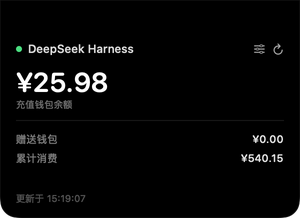
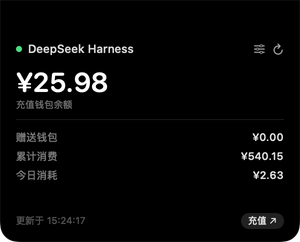
v0.3：充值入口 + 今日消耗
充值入口
- 卡片右下角「充值 ↗」，用系统浏览器打开 {平台来源}/top_up
- 域名取自凭据里的 issuer，与取余额同一来源，且不携带任何 token
  （与 DSH 自身做法一致：账号链接从平台来源派生，token 不进 URL）

今日消耗
- 平台接口没有按天维度，只有累计消费 total_costs，所以本地推算：
  记录每天起点的累计值作基线，今日消耗 = 当前累计 − 当日基线
- 跨天基线：昨天有读数就用昨天末值；隔了几天没开则用当天首读兜底（会少算）
- 基线落 UserDefaults，跨重启保留
- 判定抽成纯函数 DailyCost，--costcheck 覆盖 6 种分支：当天首读、同日差值、
  跨天用昨天末值、隔天兜底、负值钳零、连续两天独立统计

其他
- 余额卡片高度 186 → 210，容纳新增的一行与充值按钮
- 版本 0.2 → 0.3

diff --git a/Sources/main.swift b/Sources/main.swift
@@ -28,6 +28,7 @@ func runSelfTest() -> Int32 {
         print("  充值钱包  \(snapshot.primary?.display ?? "—")")
         print("  赠送钱包  \(snapshot.bonus.first?.display ?? "—")")
         print("  累计消费  \(snapshot.costs.first?.display ?? "—")")
+        print("  充值链接  \(snapshot.origin.appendingPathComponent("top_up").absoluteString)")
         return 0
     case .failure(let error):
         let text = (error as? LocalizedError)?.errorDescription ?? error.localizedDescription
@@ -74,7 +75,8 @@ func runRenderCheck() -> Int32 {
                              isExpanded: true,
                              showSettings: showSettings,
                              alert: alert,
-                             onToggleSettings: {})
+                             onToggleSettings: {},
+                             onTopUp: {})
         .frame(width: size.width, height: size.height)
 
     let renderer = ImageRenderer(content: view)
@@ -371,6 +373,69 @@ func runAlertCheck() -> Int32 {
     return failed == 0 ? 0 : 1
 }
 
+// MARK: - 今日消耗自检
+//
+// 平台只给累计消费，今日消耗是本地用差值推的。跨天、隔几天、异常值这些分支
+// 靠肉眼是验不出来的，必须逐条验。
+
+@MainActor
+func runCostCheck() -> Int32 {
+    var failed = 0
+    func check(_ name: String, _ ok: Bool, _ detail: String) {
+        if !ok { failed += 1 }
+        print("\(ok ? "✓" : "✗") \(name)")
+        print("    \(detail)")
+    }
+
+    let today = "2026-10-14"
+    let yesterday = "2026-10-13"
+
+    // 1. 当天第一次读数：没有基线，今日消耗为 0（不虚报）
+    var result = DailyCost.update(DailyCostState(), cost: 500, today: today, yesterday: yesterday)
+    check("当天首次读数 → 今日消耗 0", result.today == 0,
+          "今日 \(result.today)")
+
+    // 2. 同一天再读，取差值
+    result = DailyCost.update(result.state, cost: 502.5, today: today, yesterday: yesterday)
+    check("同一天再读 → 差值 ¥2.50", result.today == Decimal(2.5),
+          "今日 \(result.today)")
+
+    // 3. 跨天且昨天有读数：拿昨天末值当基线
+    result = DailyCost.update(result.state, cost: 505, today: "2026-10-15", yesterday: today)
+    check("跨天（昨天有读数）→ 用昨天末值当基线", result.today == Decimal(2.5),
+          "今日 \(result.today)（505 − 502.5）")
+
+    // 4. 跨天但上次读数是好几天前：只能用当天首读兜底
+    let stale = DailyCostState(dayKey: "2026-10-10", baseline: 480, lastCost: 490, lastCostDayKey: "2026-10-10")
+    result = DailyCost.update(stale, cost: 505, today: "2026-10-15", yesterday: "2026-10-14")
+    check("隔了几天没开 → 当天首读兜底（今日 0，不误报）", result.today == 0,
+          "今日 \(result.today)")
+
+    // 5. 差值异常为负时钳到 0
+    let mid = DailyCostState(dayKey: "2026-10-15", baseline: 505, lastCost: 505, lastCostDayKey: "2026-10-15")
+    result = DailyCost.update(mid, cost: 500, today: "2026-10-15", yesterday: "2026-10-14")
+    check("差值异常为负 → 钳到 0", result.today == 0, "今日 \(result.today)")
+
+    // 6. 连续多天各自独立统计
+    var state = DailyCostState()
+    var day1 = Decimal(0)
+    var day2 = Decimal(0)
+    for (cost, day, prev) in [(Decimal(100), "2026-10-20", "2026-10-19"),
+                              (Decimal(103), "2026-10-20", "2026-10-19"),
+                              (Decimal(106), "2026-10-21", "2026-10-20"),
+                              (Decimal(107), "2026-10-21", "2026-10-20")] {
+        let r = DailyCost.update(state, cost: cost, today: day, yesterday: prev)
+        state = r.state
+        if day == "2026-10-20" { day1 = r.today } else { day2 = r.today }
+    }
+    check("连续两天各自独立统计", day1 == 3 && day2 == 4,
+          "10-20 消耗 \(day1)，10-21 消耗 \(day2)")
+
+    print("")
+    print(failed == 0 ? "今日消耗推算全部通过" : "\(failed) 项失败")
+    return failed == 0 ? 0 : 1
+}
+
 // MARK: - 入口
 
 if CommandLine.arguments.contains("--version") {
@@ -392,6 +457,10 @@ if CommandLine.arguments.contains("--panelcheck") {
 
 if CommandLine.arguments.contains("--clicktest") {
     exit(MainActor.assumeIsolated { runClickTest() })
+}
+
+if CommandLine.arguments.contains("--costcheck") {
+    exit(MainActor.assumeIsolated { runCostCheck() })
 }
 
 if CommandLine.arguments.contains("--alertcheck") {

diff --git a/Sources/Views.swift b/Sources/Views.swift
@@ -41,6 +41,7 @@ struct ExpandedCard: View {
     let showSettings: Bool
     let alert: BalanceAlert?
     let onToggleSettings: () -> Void
+    let onTopUp: () -> Void
 
     var body: some View {
         VStack(alignment: .leading, spacing: 0) {
@@ -50,9 +51,10 @@ struct ExpandedCard: View {
                     .padding(.top, 10)
             } else {
                 amount
-                Divider().overlay(Color.white.opacity(0.10)).padding(.vertical, 9)
+                Divider().overlay(Color.white.opacity(0.10)).padding(.vertical, 8)
                 detail(title: "赠送钱包", value: model.bonusText)
                 detail(title: "累计消费", value: model.costText)
+                detail(title: "今日消耗", value: model.todayCostText)
             }
             Spacer(minLength: 6)
             footer
@@ -134,30 +136,50 @@ struct ExpandedCard: View {
                 Text("展开动画与额度提醒，改动即时生效并记住。")
                     .font(.system(size: 9.5))
                     .foregroundStyle(.white.opacity(0.30))
-            } else if let alert {
-                HStack(spacing: 5) {
-                    Image(systemName: "bell.fill")
-                        .font(.system(size: 8))
-                        .foregroundStyle(alert.color)
-                    Text(alert.title)
-                        .font(.system(size: 10, weight: .medium))
-                        .foregroundStyle(alert.color)
-                }
-                Text(model.updatedText)
-                    .font(.system(size: 9.5))
-                    .foregroundStyle(.white.opacity(0.32))
             } else {
-                if let errorText = model.errorText {
+                if let alert {
+                    HStack(spacing: 5) {
+                        Image(systemName: "bell.fill")
+                            .font(.system(size: 8))
+                            .foregroundStyle(alert.color)
+                        Text(alert.title)
+                            .font(.system(size: 10, weight: .medium))
+                            .foregroundStyle(alert.color)
+                    }
+                } else if let errorText = model.errorText {
                     Text(errorText)
                         .font(.system(size: 9.5))
                         .foregroundStyle(Color(red: 1.0, green: 0.5, blue: 0.45))
                         .lineLimit(1)
                 }
-                Text(model.isStale ? "显示的是上次成功获取的数据" : model.updatedText)
-                    .font(.system(size: 9.5))
-                    .foregroundStyle(.white.opacity(0.32))
+
+                HStack(spacing: 8) {
+                    Text(model.isStale && alert == nil ? "显示的是上次成功获取的数据" : model.updatedText)
+                        .font(.system(size: 9.5))
+                        .foregroundStyle(.white.opacity(0.32))
+                        .lineLimit(1)
+                    Spacer(minLength: 0)
+                    topUpButton
+                }
             }
         }
+    }
+
+    /// 充值入口：打开平台充值页，沿用浏览器自己的登录态，不带任何授权信息。
+    private var topUpButton: some View {
+        Button(action: onTopUp) {
+            HStack(spacing: 2) {
+                Text("充值")
+                    .font(.system(size: 9.5, weight: .medium))
+                Image(systemName: "arrow.up.right")
+                    .font(.system(size: 7.5, weight: .bold))
+            }
+            .foregroundStyle(.white.opacity(0.85))
+            .padding(.horizontal, 7)
+            .padding(.vertical, 2)
+            .background(Capsule().fill(Color.white.opacity(0.13)))
+        }
+        .buttonStyle(.plain)
     }
 }
 
@@ -261,6 +283,7 @@ struct NotchRootView: View {
     let showSettings: Bool
     let alert: BalanceAlert?
     let onToggleSettings: () -> Void
+    let onTopUp: () -> Void
 
     var body: some View {
         ZStack(alignment: .top) {
@@ -271,7 +294,8 @@ struct NotchRootView: View {
                              topInset: geometry.notch.height,
                              showSettings: showSettings,
                              alert: alert,
-                             onToggleSettings: onToggleSettings)
+                             onToggleSettings: onToggleSettings,
+                             onTopUp: onTopUp)
             }
         }
         .ignoresSafeArea()

diff --git a/Sources/BalanceModel.swift b/Sources/BalanceModel.swift
@@ -10,6 +10,8 @@ final class BalanceModel: ObservableObject {
     @Published private(set) var errorText: String?
     @Published private(set) var isRefreshing = false
     @Published var isExpanded = false
+    /// 今日消耗（本地用累计消费的差值推算）
+    @Published private(set) var todayCost: Decimal?
 
     /// 轮询间隔：5 分钟。DSH 自身超时为 30s，不需要更频繁地打接口。
     let refreshInterval: TimeInterval = 300
@@ -21,6 +23,7 @@ final class BalanceModel: ObservableObject {
     private let client = BalanceClient()
     private var pollTask: Task<Void, Never>?
     private var detector = AlertDetector()
+    private var costState = DailyCostStore.load()
 
     init(settings: NotchSettings) {
         self.settings = settings
@@ -50,10 +53,34 @@ final class BalanceModel: ObservableObject {
             let fresh = try await client.fetch()
             snapshot = fresh
             errorText = nil
+            updateDailyCost(fresh)
             evaluateAlert(fresh)
         } catch {
             errorText = (error as? LocalizedError)?.errorDescription ?? error.localizedDescription
         }
+    }
+
+    private func updateDailyCost(_ fresh: BalanceSnapshot) {
+        guard let cost = fresh.costs.first?.amount.decimal else { return }
+        let today = DailyCost.dayKey(for: fresh.fetchedAt)
+        let yesterday = DailyCost.dayKey(for: fresh.fetchedAt.addingTimeInterval(-86_400))
+        let result = DailyCost.update(costState, cost: cost, today: today, yesterday: yesterday)
+        costState = result.state
+        DailyCostStore.save(result.state)
+        todayCost = result.today
+    }
+
+    /// 充值入口。链接由凭据里的平台来源派生，不带任何授权信息——
+    /// 打开的是浏览器自己的登录态，和 DSH 的做法一致。
+    var topUpURL: URL {
+        let origin = snapshot?.origin ?? URL(string: "https://platform.deepseek.com")!
+        return origin.appendingPathComponent("top_up")
+    }
+
+    var todayCostText: String {
+        guard let todayCost else { return "—" }
+        let symbol = snapshot?.costs.first.map { AmountFormat.symbol(for: $0.currency) } ?? "¥"
+        return symbol + AmountFormat.string(todayCost)
     }
 
     private func evaluateAlert(_ fresh: BalanceSnapshot) {
@@ -67,13 +94,15 @@ final class BalanceModel: ObservableObject {
     }
 
     /// 仅供 `--render` 离屏预览使用：注入一份假快照，不发起网络请求。
-    func injectPreview(normal: String, bonus: String, cost: String) {
+    func injectPreview(normal: String, bonus: String, cost: String, today: String = "2.63") {
         snapshot = BalanceSnapshot(
             normal: [Wallet(currency: "CNY", balance: LooseString(normal))],
             bonus: [Wallet(currency: "CNY", balance: LooseString(bonus))],
             costs: [Cost(currency: "CNY", amount: LooseString(cost))],
-            fetchedAt: Date()
+            fetchedAt: Date(),
+            origin: URL(string: "https://platform.deepseek.com")!
         )
+        todayCost = Decimal(string: today)
     }
 
     // MARK: - 展示

diff --git a/Sources/DailyCost.swift b/Sources/DailyCost.swift
@@ -1,0 +1,65 @@
+import Foundation
+
+/// 「今日消耗」的本地推算状态。
+///
+/// 平台只提供累计消费（`total_costs`），没有按天维度，所以只能自己记基线：
+/// 今日消耗 = 当前累计消费 − 当日基线。
+struct DailyCostState: Codable, Equatable {
+    /// 基线所属日期（yyyy-MM-dd）
+    var dayKey: String = ""
+    /// 当天起点时的累计消费
+    var baseline: Decimal = 0
+    /// 最近一次读到的累计消费
+    var lastCost: Decimal = 0
+    /// 最近一次读数所属日期
+    var lastCostDayKey: String = ""
+}
+
+/// 纯逻辑，便于 `--costcheck` 自检。
+enum DailyCost {
+    static func dayKey(for date: Date, calendar: Calendar = .current) -> String {
+        let c = calendar.dateComponents([.year, .month, .day], from: date)
+        return String(format: "%04d-%02d-%02d", c.year ?? 0, c.month ?? 0, c.day ?? 0)
+    }
+
+    /// 用一次新读数推算出今日消耗。
+    ///
+    /// 跨天时基线的取法：
+    /// - 上一次读数就在昨天 → 拿它当基线，最接近午夜的真实值
+    /// - 上一次读数是更早（应用关了几天）→ 只能用今天第一次读数兜底，会少算一部分
+    static func update(_ state: DailyCostState,
+                       cost: Decimal,
+                       today: String,
+                       yesterday: String) -> (today: Decimal, state: DailyCostState) {
+        var next = state
+
+        if state.dayKey != today {
+            next.dayKey = today
+            next.baseline = (state.lastCostDayKey == yesterday) ? state.lastCost : cost
+        }
+
+        next.lastCost = cost
+        next.lastCostDayKey = today
+
+        let spent = cost - next.baseline
+        return (spent < 0 ? 0 : spent, next)
+    }
+}
+
+/// 落盘。跨重启保留，否则每次开应用今日消耗都会归零。
+enum DailyCostStore {
+    private static let key = "dshNotch.dailyCost"
+
+    static func load() -> DailyCostState {
+        guard let data = UserDefaults.standard.data(forKey: key),
+              let state = try? JSONDecoder().decode(DailyCostState.self, from: data) else {
+            return DailyCostState()
+        }
+        return state
+    }
+
+    static func save(_ state: DailyCostState) {
+        guard let data = try? JSONEncoder().encode(state) else { return }
+        UserDefaults.standard.set(data, forKey: key)
+    }
+}

diff --git a/Sources/NotchController.swift b/Sources/NotchController.swift
@@ -233,7 +233,8 @@ final class NotchController {
                       isExpanded: contentExpanded,
                       showSettings: showSettings,
                       alert: pendingAlert,
-                      onToggleSettings: { [weak self] in self?.toggleSettings() })
+                      onToggleSettings: { [weak self] in self?.toggleSettings() },
+                      onTopUp: { [weak self] in self?.openTopUpPage() })
     }
 
     /// 强制重建视图树。SwiftUI 的 @ObservedObject 传播不会刷新这棵由
@@ -255,6 +256,13 @@ final class NotchController {
     func setExpanded(_ expanded: Bool) {
         dshLog("setExpanded(\(expanded))")
         model.isExpanded = expanded
+    }
+
+    /// 打开平台充值页。用系统浏览器，沿用那边的登录态；链接不含任何 token。
+    func openTopUpPage() {
+        let url = model.topUpURL
+        dshLog("打开充值页：\(url.absoluteString)")
+        NSWorkspace.shared.open(url)
     }
 
     func toggleSettings() {

diff --git a/Sources/Balance.swift b/Sources/Balance.swift
@@ -49,6 +49,8 @@ struct BalanceSnapshot {
     let bonus: [Wallet]
     let costs: [Cost]
     let fetchedAt: Date
+    /// 凭据里的平台来源。充值链接由它派生，与接口调用同一来源，且不携带任何 token。
+    let origin: URL
 
     /// 展示用的主钱包：优先取有余额的充值钱包。
     /// 注意：查询失败时不会走到这里——失败绝不合成 0，而是保留上一次的快照。
@@ -264,7 +266,8 @@ struct BalanceClient {
         return BalanceSnapshot(normal: biz.normalWallets,
                                bonus: biz.bonusWallets,
                                costs: biz.totalCosts,
-                               fetchedAt: Date())
+                               fetchedAt: Date(),
+                               origin: credential.issuer)
     }
 
     private struct Envelope: Decodable {

diff --git a/Sources/NotchGeometry.swift b/Sources/NotchGeometry.swift
@@ -19,7 +19,7 @@ struct NotchGeometry {
 
     static let expandedWidth: CGFloat = 300
     /// 余额页高度
-    static let balanceCardHeight: CGFloat = 186
+    static let balanceCardHeight: CGFloat = 210
     /// 设置页要放 3 个滑杆 + 分段控件，比余额页高
     static let settingsCardHeight: CGFloat = 236
 
